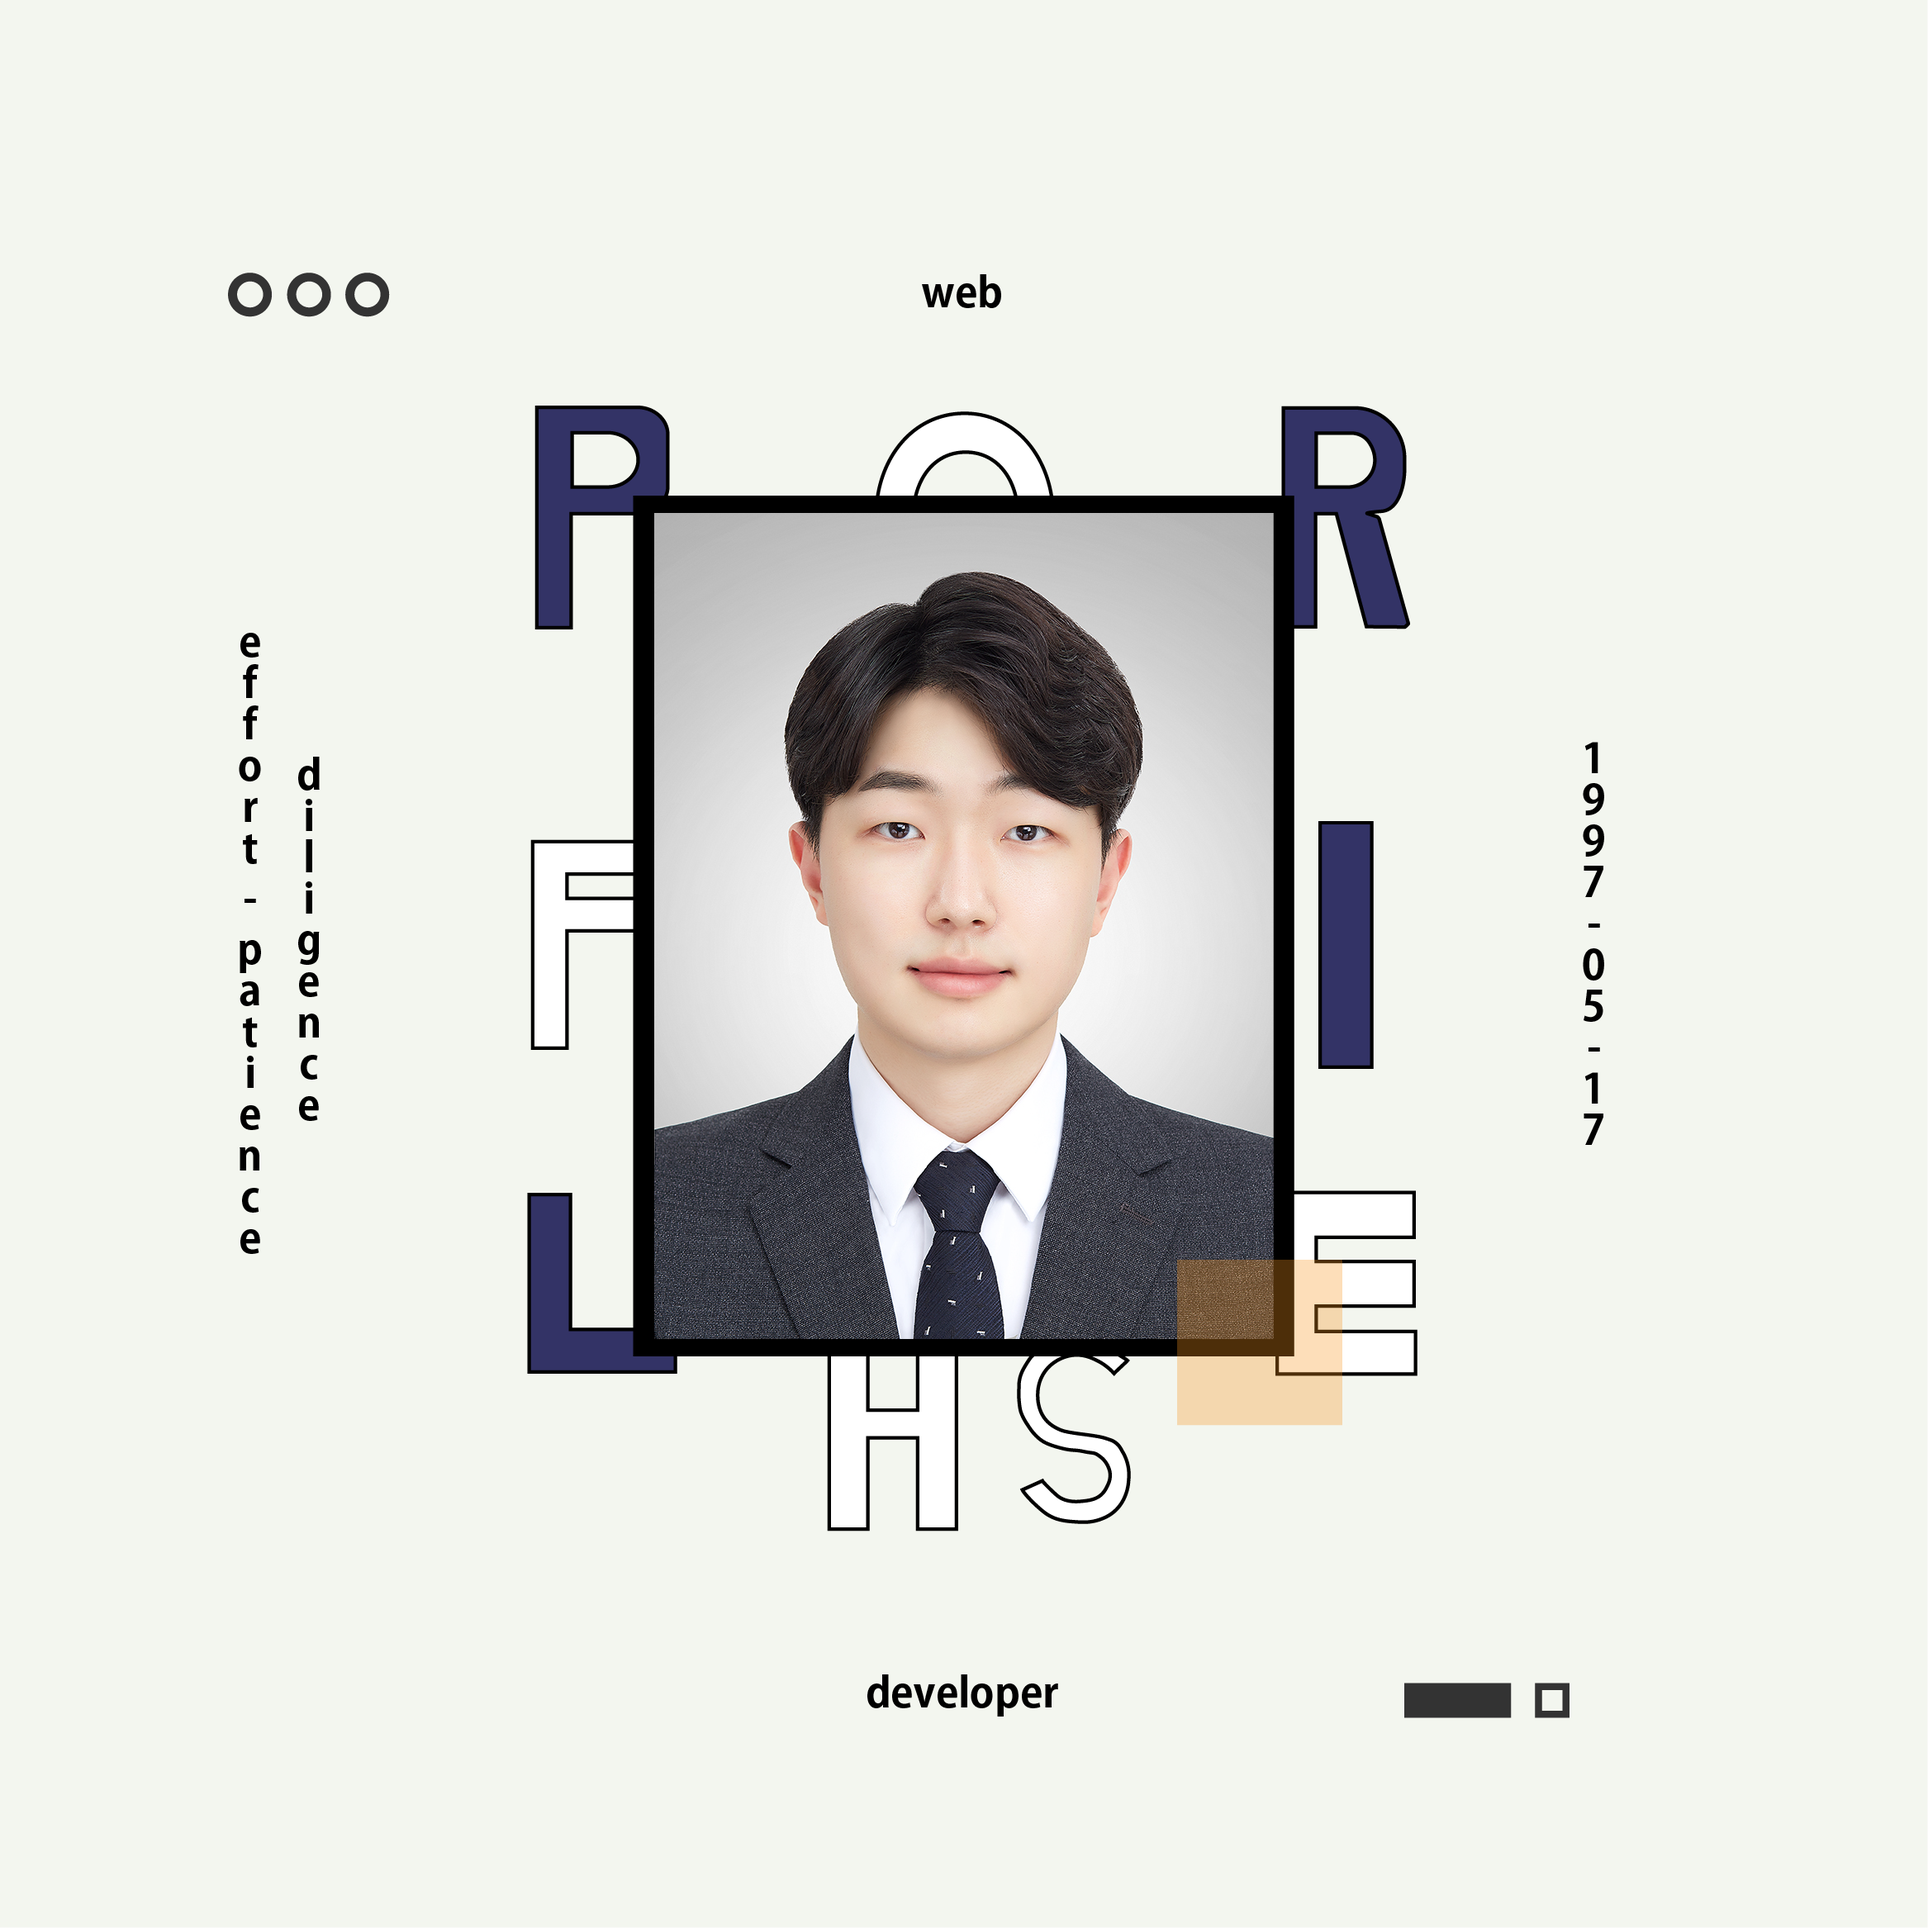
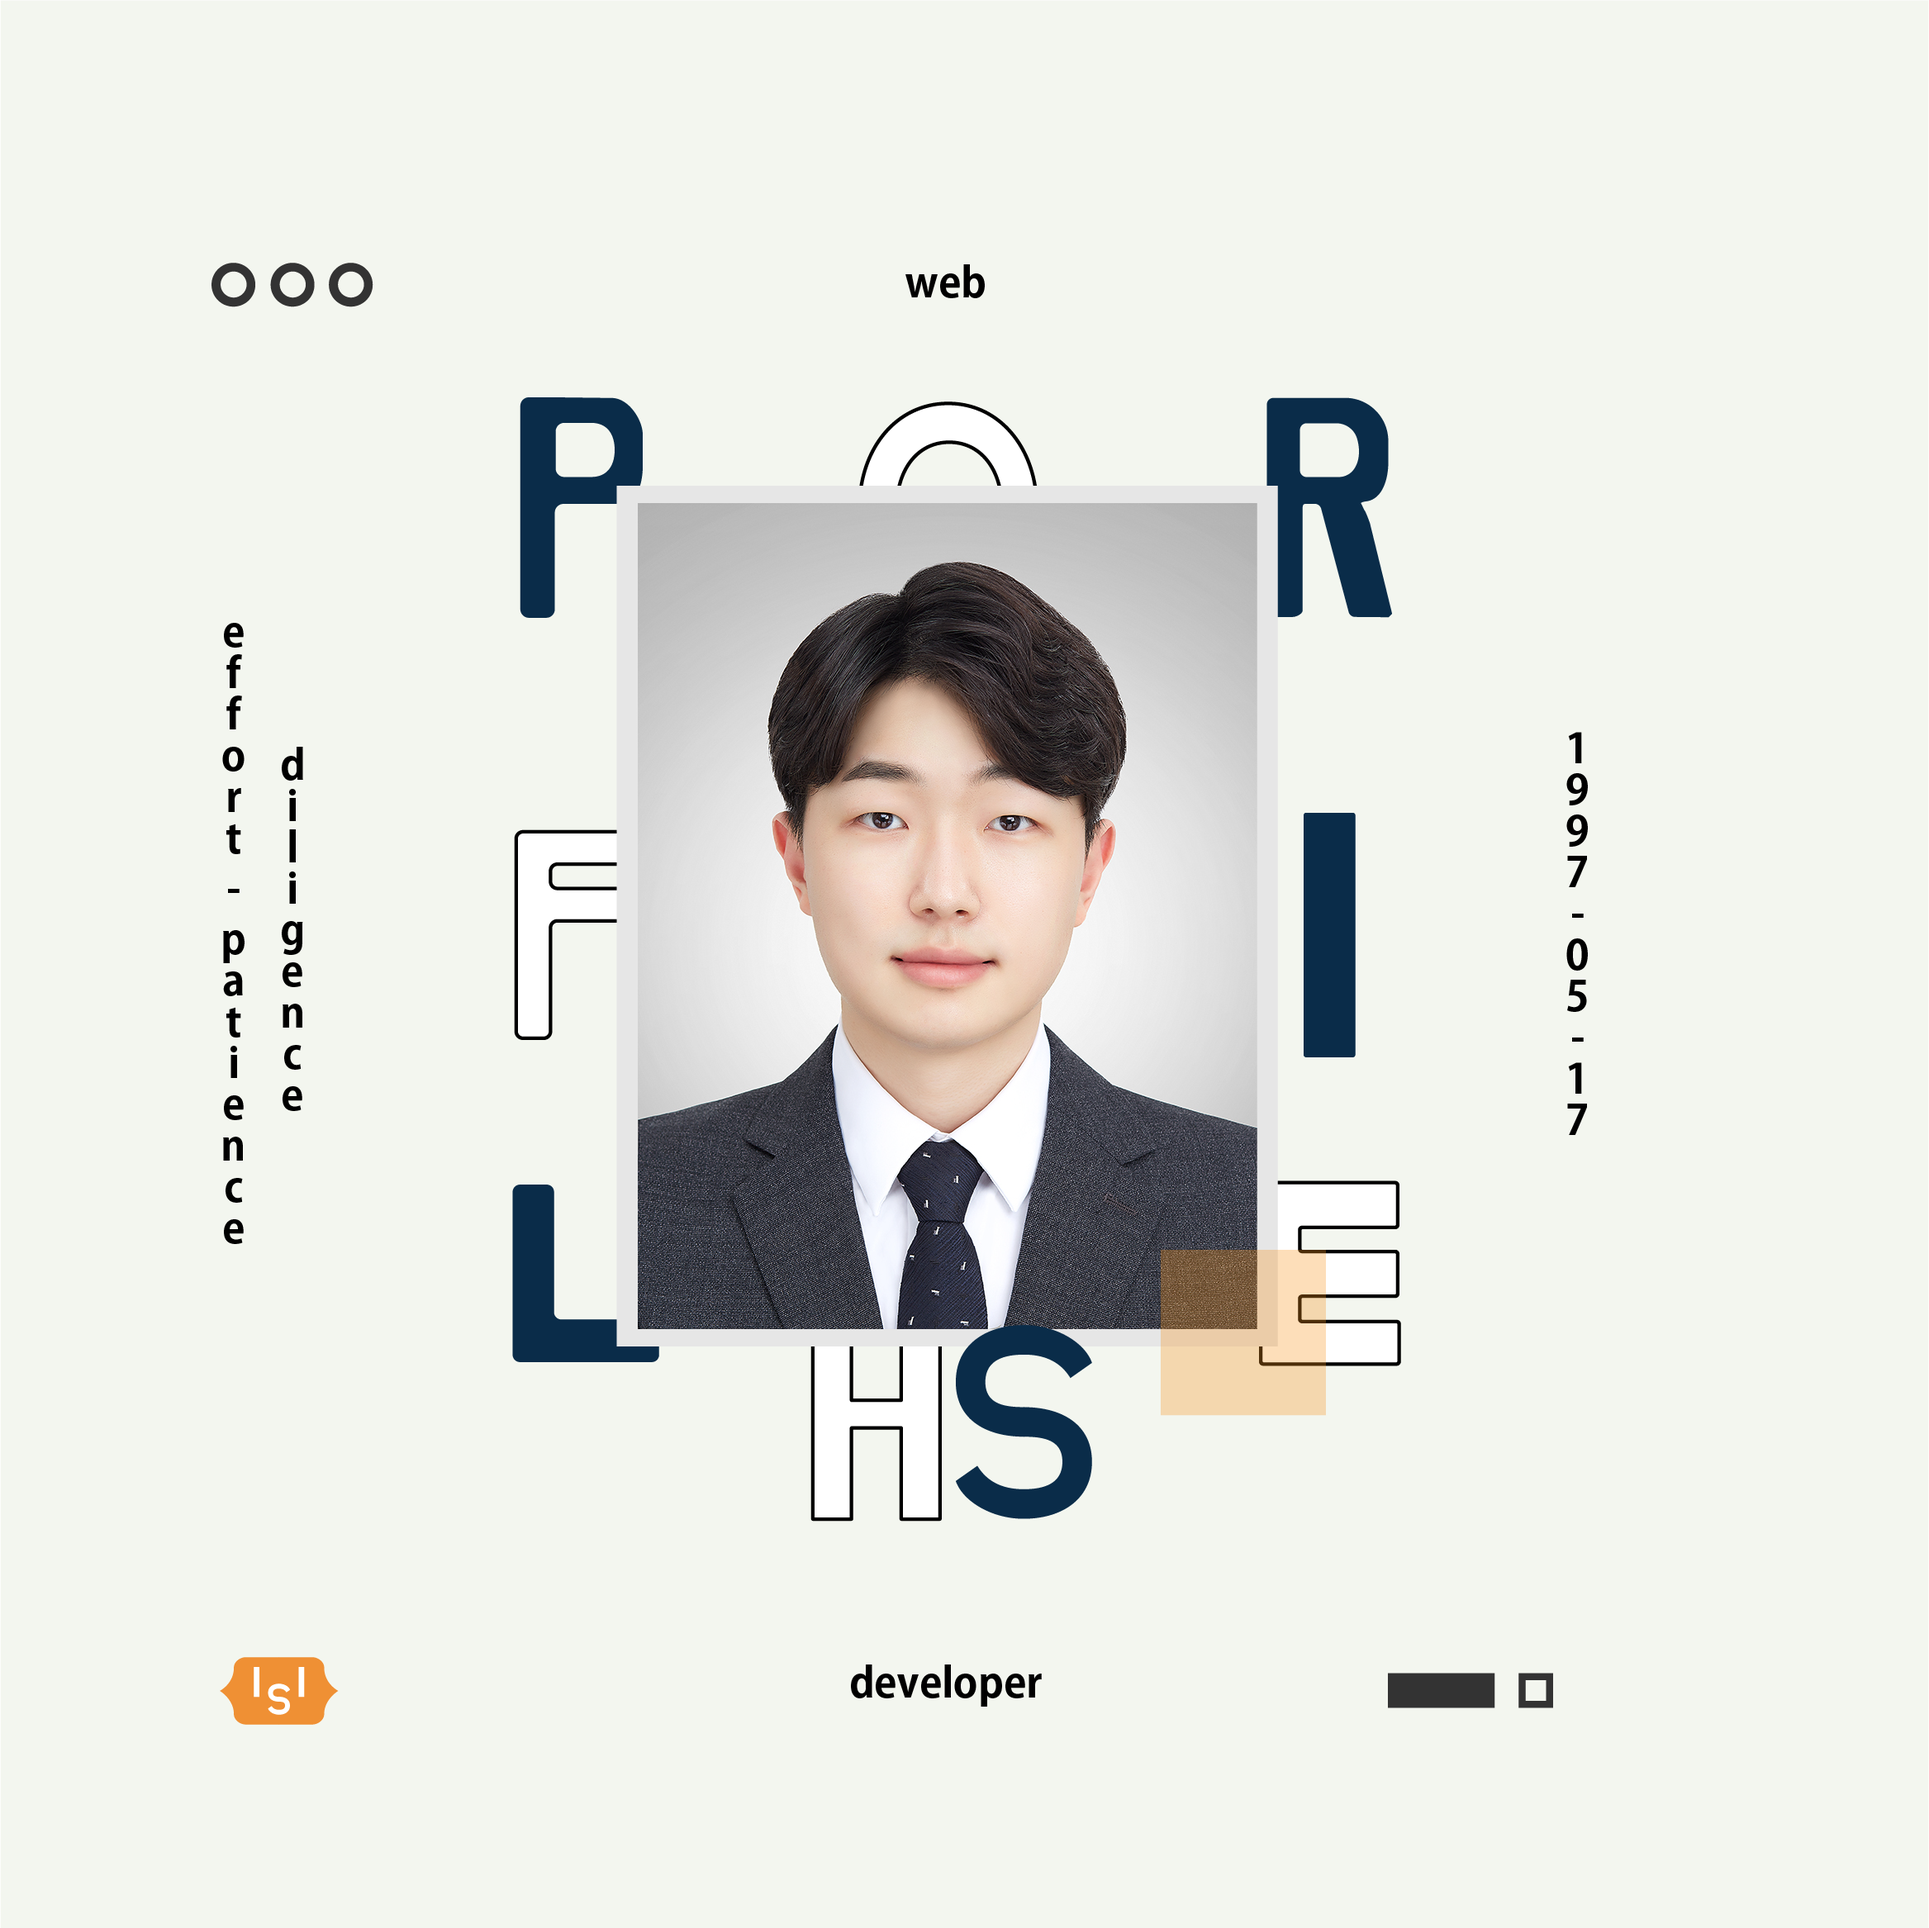
update footer

diff --git a/src/public/my-proflie.css b/src/public/my-proflie.css
@@ -21,6 +21,14 @@ nav {
   filter: invert(100%) sepia(0%) saturate(0%) hue-rotate(119deg)
     brightness(111%) contrast(101%);
 }
+.my-mt {
+  margin-top: 60px;
+}
+
+a {
+  text-decoration: none;
+  color: black;
+}
 
 @media screen and (min-width: 800px) {
   .col {

diff --git a/src/public/self-intro.css b/src/public/self-intro.css
@@ -1,3 +1,6 @@
 .fs-4 {
   font-size: calc(0.8rem + 0.3vw) !important;
 }
+.my-header {
+  margin-top: 70px;
+}
